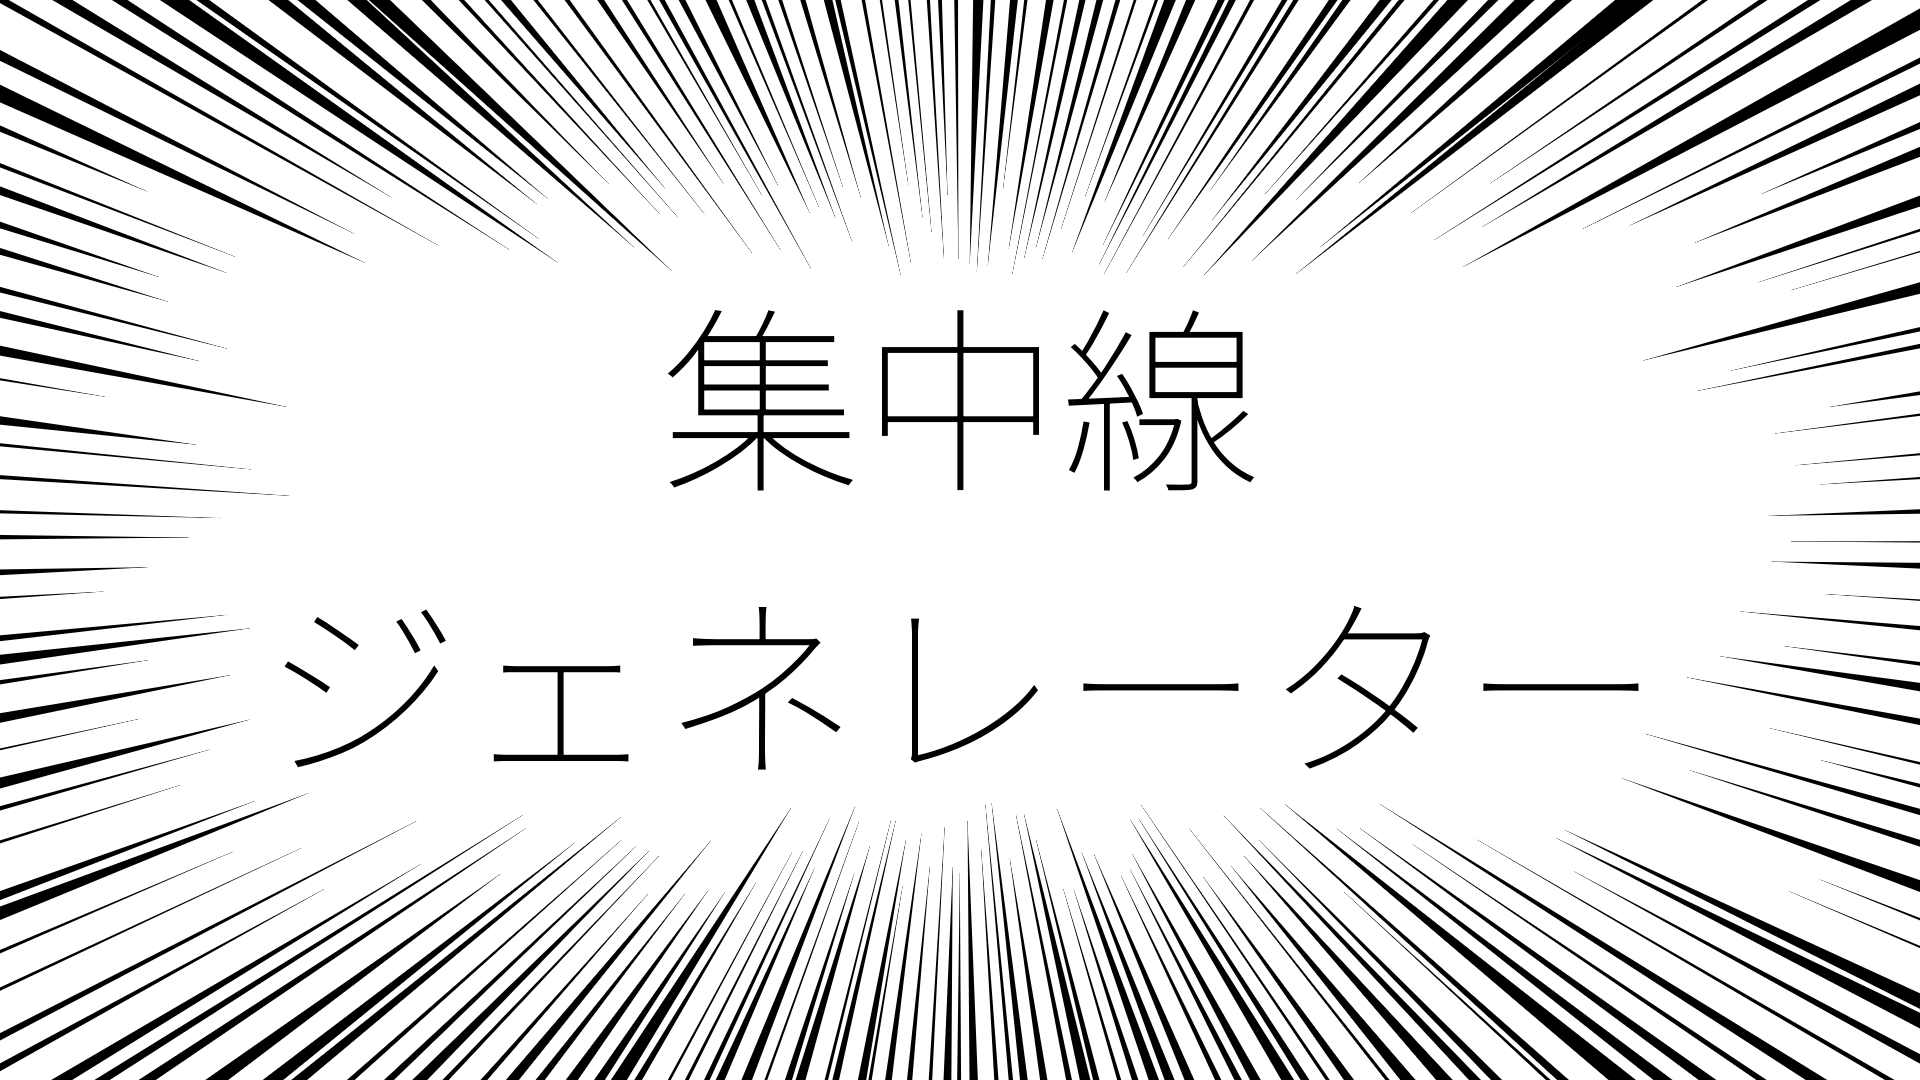
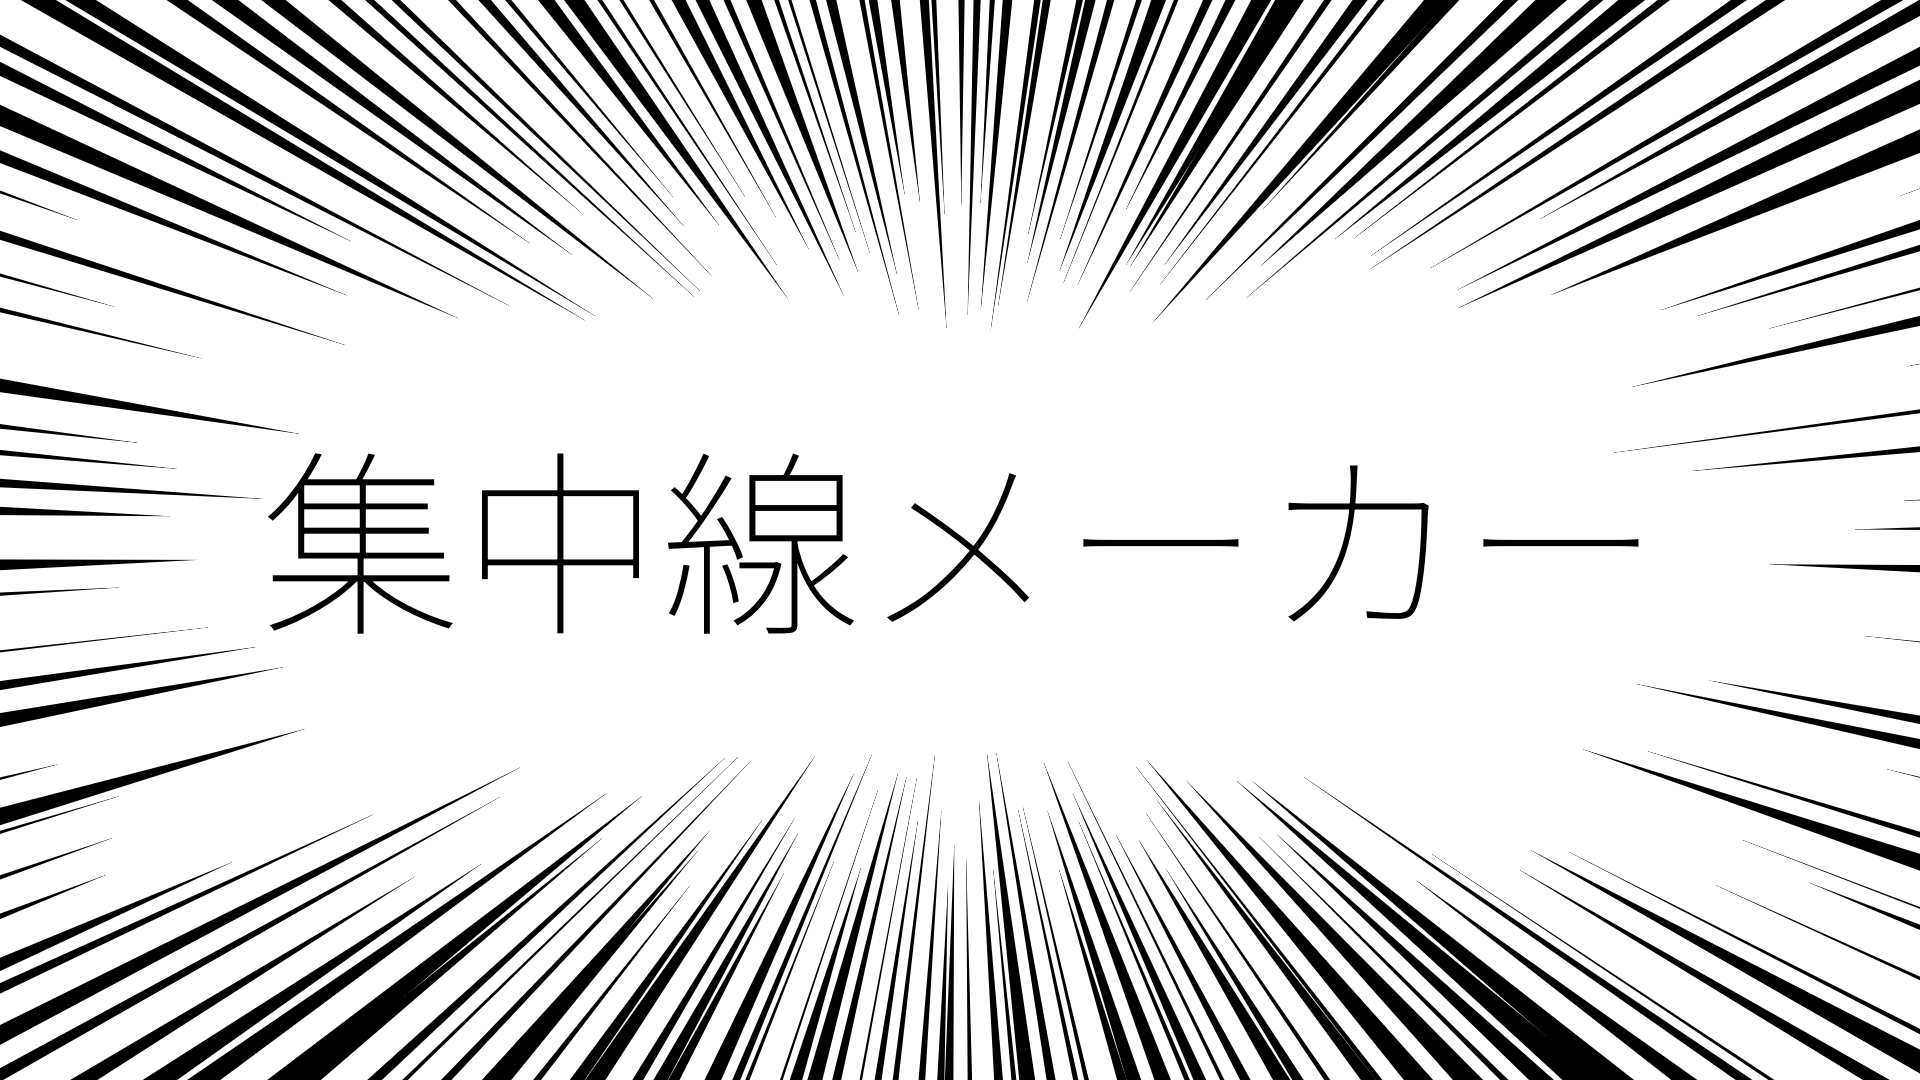
update title

diff --git a/terms.html b/terms.html
@@ -18,37 +18,37 @@
     <link rel="stylesheet" href="assets/style.css">
 
     <!-- ページタイトル -->
-    <title>利用規約 | 集中線ジェネレーター</title>
+    <title>利用規約 | 集中線メーカー</title>
 
     <!-- 検索エンジン・SNS向けメタ情報 -->
-    <meta name="description" content="集中線ジェネレーターの利用規約ページです。本サービスをご利用いただく前に、必ず内容をご確認ください。" />
+    <meta name="description" content="集中線メーカーの利用規約ページです。本サービスをご利用いただく前に、必ず内容をご確認ください。" />
     <link rel="canonical" href="https://focus-lines-generator.vercel.app/" />
 
     <!-- Open Graph -->
-    <meta property="og:title" content="利用規約 | 集中線ジェネレーター" />
-    <meta property="og:description" content="集中線ジェネレーターの利用規約ページです。本サービスをご利用いただく前に、必ず内容をご確認ください。" />
+    <meta property="og:title" content="利用規約 | 集中線メーカー" />
+    <meta property="og:description" content="集中線メーカーの利用規約ページです。本サービスをご利用いただく前に、必ず内容をご確認ください。" />
     <meta property="og:type" content="website" />
     <meta property="og:url" content="https://focus-lines-generator.vercel.app/" />
     <meta property="og:image" content="https://focus-lines-generator.vercel.app/assets/ogp.png" />
-    <meta property="og:site_name" content="利用規約 | 集中線ジェネレーター" />
+    <meta property="og:site_name" content="利用規約 | 集中線メーカー" />
     
     <!-- Twitter Card -->
     <meta name="twitter:card" content="summary_large_image" />
     <meta property="twitter:image" content="https://focus-lines-generator.vercel.app/assets/ogp.png" />
-    <meta property="twitter:title" content="利用規約 | 集中線ジェネレーター" />
+    <meta property="twitter:title" content="利用規約 | 集中線メーカー" />
     <meta name="twitter:site" content="@hato_1198_ui" />
     <meta name="twitter:creator" content="@hato_1198_ui" />
 </head>
 <body>
     <header>
         <h1>利用規約</h1>
-        <p>集中線ジェネレーターの利用規約です。</p>
+        <p>集中線メーカーの利用規約です。</p>
     </header>
 
     <main class="page-container">
         <section>
             <h2>はじめに</h2>
-            <p>この利用規約（以下、「本規約」といいます。）は、「集中線ジェネレーター」（以下、「本サービス」といいます。）の利用条件を定めるものです。本サービスをご利用になるすべての方（以下、「利用者」といいます。）は、本規約に同意したものとみなします。</p>
+            <p>この利用規約（以下、「本規約」といいます。）は、「集中線メーカー」（以下、「本サービス」といいます。）の利用条件を定めるものです。本サービスをご利用になるすべての方（以下、「利用者」といいます。）は、本規約に同意したものとみなします。</p>
 
             <h2>生成画像の利用について</h2>
             <p>利用者は、本サービスを利用して作成した画像（以下、「生成画像」といいます。）を、以下の条件で自由にご利用いただけます。</p>

diff --git a/index.html b/index.html
@@ -18,24 +18,24 @@
     <link rel="stylesheet" href="assets/style.css">
     
     <!-- ページタイトル -->
-    <title>集中線ジェネレーター</title>
+    <title>集中線メーカー</title>
 
     <!-- 検索エンジン・SNS向けメタ情報 -->
     <meta name="description" content="簡単に画像に集中線を合成できるツールです。完全に無料でご利用いただけます。商用利用も可能です。" />
     <link rel="canonical" href="https://focus-lines-generator.vercel.app/" />
 
     <!-- Open Graph -->
-    <meta property="og:title" content="集中線ジェネレーター" />
+    <meta property="og:title" content="集中線メーカー" />
     <meta property="og:description" content="簡単に画像に集中線を合成できるツールです。完全に無料でご利用いただけます。商用利用も可能です。" />
     <meta property="og:type" content="website" />
     <meta property="og:url" content="https://focus-lines-generator.vercel.app/" />
     <meta property="og:image" content="https://focus-lines-generator.vercel.app/assets/ogp.png" />
-    <meta property="og:site_name" content="集中線ジェネレーター" />
+    <meta property="og:site_name" content="集中線メーカー" />
     
     <!-- Twitter Card -->
     <meta name="twitter:card" content="summary_large_image" />
     <meta property="twitter:image" content="https://focus-lines-generator.vercel.app/assets/ogp.png" />
-    <meta property="twitter:title" content="集中線ジェネレーター" />
+    <meta property="twitter:title" content="集中線メーカー" />
     <meta name="twitter:site" content="@hato_1198_ui" />
     <meta name="twitter:creator" content="@hato_1198_ui" />
     
@@ -50,7 +50,7 @@
 </head>
 <body>
     <header>
-        <h1>集中線ジェネレーター</h1>
+        <h1>集中線メーカー</h1>
         <p>画像に集中線を追加できる無料ツールです。</p>
     </header>
 
